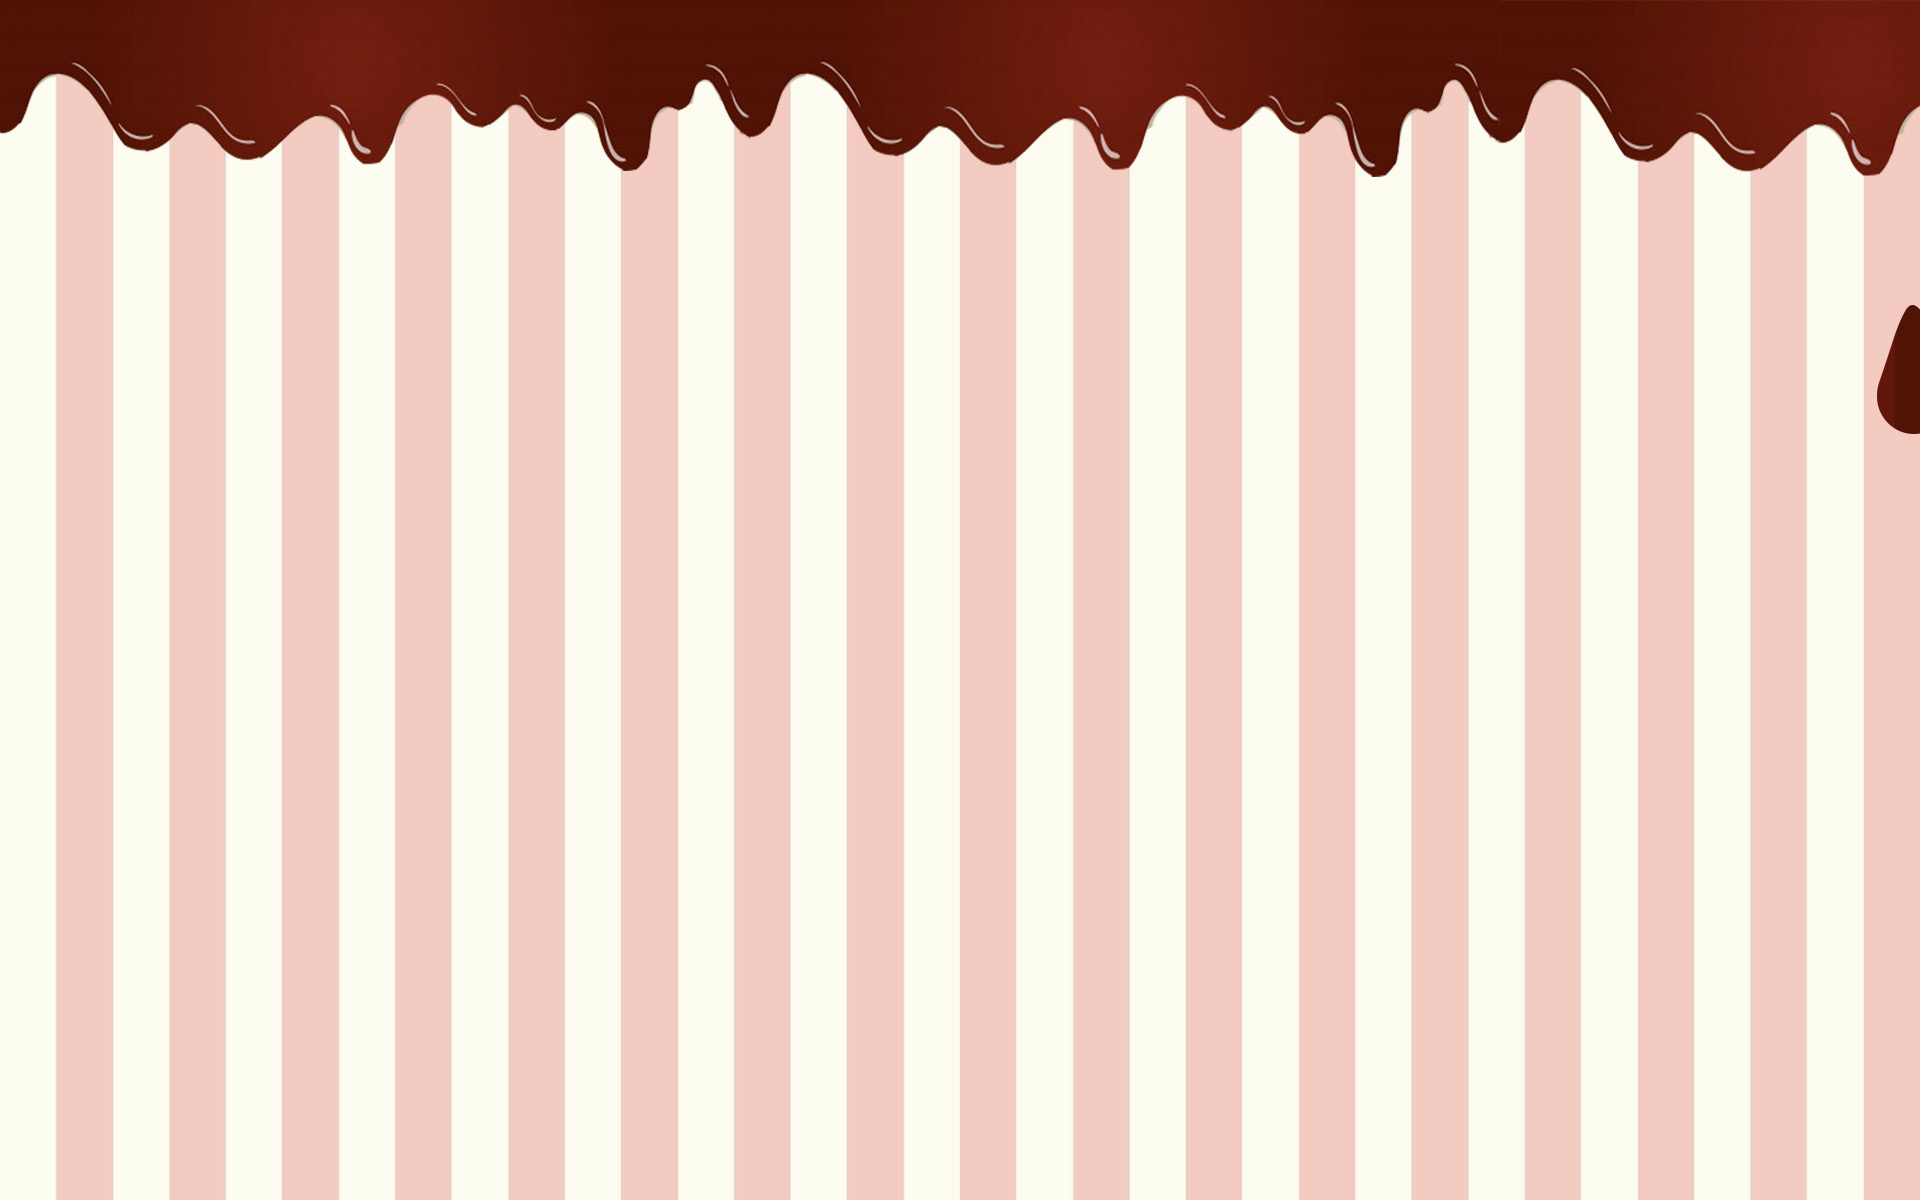
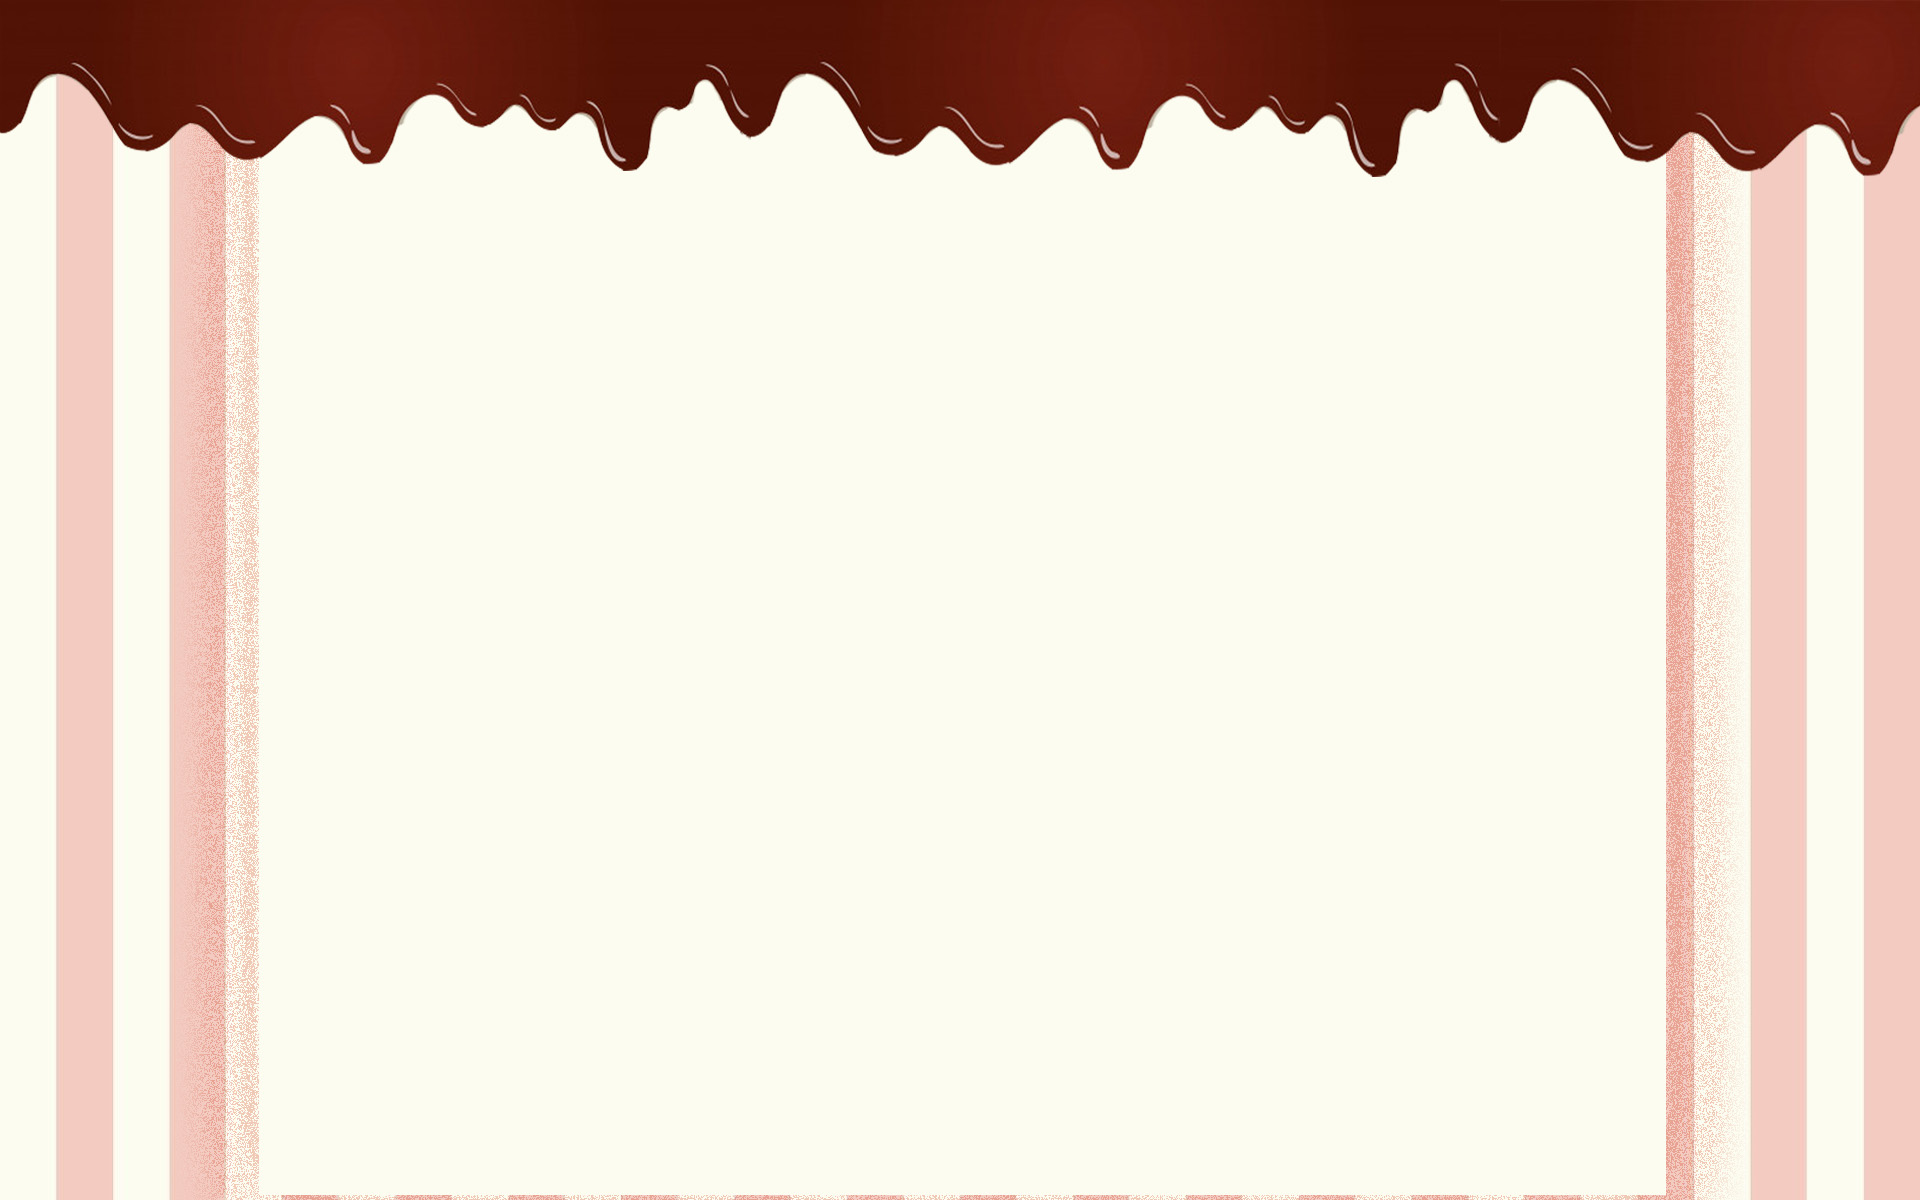
Block ABOUT was made

diff --git a/OrderingCakes/src/app/main/main.component.html b/OrderingCakes/src/app/main/main.component.html
@@ -1,3 +1,21 @@
 <main>
-    
+    <div class="container">
+        <div class="row">
+        <div class="col about text-center">
+            <h2>О нас</h2>
+            <p class="text-justify">Здравствуйте! Мы - семья Павловых. Печем вкусные домашние тортики для Вас и Ваших близких) <br> 
+                У нас можно заказать необычные, интересные, а главное самые вкусные и натуральные сладости ручной работы, которые подарят не только частичку удовольствия, но и украсят ваш праздник.
+                Каждое изделие индивидуально и изготавливается в соответствии с вашими предпочтениями и пожеланиями по весу, объему, оформлению, наличию или отсутствию определенных продуктов. Мы всегда готовы рассмотреть любые ваши идеи и сделать что-то новое.
+                Мы используем только натуральные продукты! <br>
+                Члены нашей семьи очень ответственно подходят к своей работе. Наш Администратор обсудит с Вами все ваши пожелания и преложит наилучший вариант.
+                Наш Повар сотворит чудеснейшее лакомство для Вас. Наш курьер доставит тортик быстро, в целости и сохранности. Если ты - сладкоежка, тебе обязательно стоит попробовать нащ тортик.) 
+            </p>
+            <div class="row person">
+                <div class="col lower "><img src="/assets/img/admin.png" alt="Администратор"></div>
+                <div class="col "><img src="/assets/img/cooker.png" alt="Повар"></div>
+                <div class="col lower"><img src="/assets/img/driver.png" alt="Курьер"></div>
+            </div>
+        </div>
+        </div>
+    </div>
 </main>

diff --git a/OrderingCakes/src/app/main/main.component.css b/OrderingCakes/src/app/main/main.component.css
@@ -1,7 +1,29 @@
 main {
     background-image: url(/assets/img/bg10.jpg);
     background-repeat: no-repeat;
-    background-size: cover;
+    background-size: contain;
+    padding: 0 15%;
+}
+main h2 {
+    font-family: 'Ekaterina Velikaya One', arial;
+}
+main .about{
+    display: grid;
+    grid-template-rows: 80px 320px 1200px;
+    margin-top: 200px;
+}
+main .about p {
+    font-size: 20px;
+}
+main .about img {
     width: 100%;
-    height: 1000px;
+    margin: 0 15%;
+    
+}
+main .about .lower {
+    margin-top: 100px;
+}
+main .about .person {
+    display: grid;
+    grid-template-columns: 30% 30% 30%;
 }

diff --git a/OrderingCakes/src/index.html b/OrderingCakes/src/index.html
@@ -7,6 +7,7 @@
   <meta name="viewport" content="width=device-width, initial-scale=1">
   <link rel="icon" type="image/x-icon" href="favicon.ico">
   <link href="https://fonts.googleapis.com/css?family=Cormorant+Garamond&display=swap" rel="stylesheet">
+  <link href="http://allfont.ru/allfont.css?fonts=ekaterina-velikaya-one" rel="stylesheet" type="text/css" />
 </head>
 <body>
   <app-root></app-root>

diff --git a/OrderingCakes/src/styles.css b/OrderingCakes/src/styles.css
@@ -1,1 +1,5 @@
-/* You can add global styles to this file, and also import other style files */
+*{
+    margin: 0;
+    padding: 0;
+    font-family: 'Cormorant Garamond', serif;
+}

diff --git a/OrderingCakes/src/app/header/header.component.css b/OrderingCakes/src/app/header/header.component.css
@@ -9,7 +9,6 @@ a {
 header {
     height: 180px;
     background-color: #fcfcf0;
-    font-family: 'Cormorant Garamond', serif;
     color: #770a00;
 }
 header .header {
